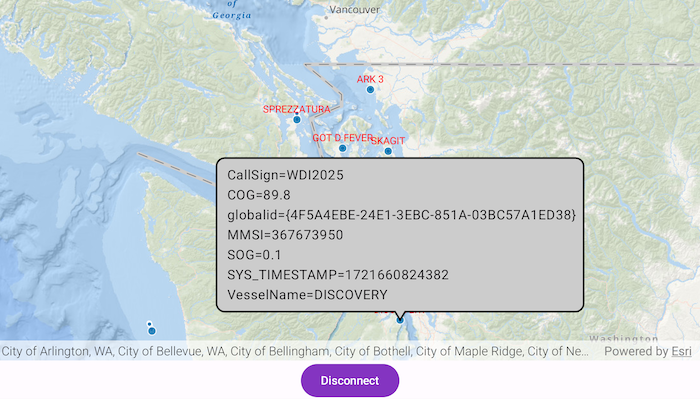
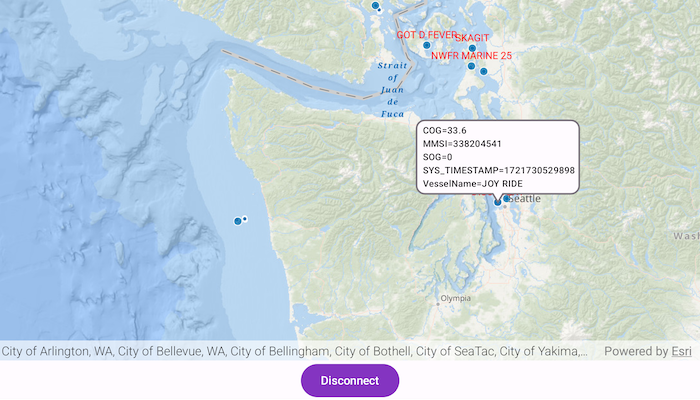
PR fixes

diff --git a/add-custom-dynamic-entity-data-source/src/main/java/com/esri/arcgismaps/sample/addcustomdynamicentitydatasource/components/MapViewModel.kt b/add-custom-dynamic-entity-data-source/src/main/java/com/esri/arcgismaps/sample/addcustomdynamicentitydatasource/components/MapViewModel.kt
@@ -17,7 +17,6 @@
 package com.esri.arcgismaps.sample.addcustomdynamicentitydatasource.components
 
 import android.app.Application
-import android.util.Log
 import androidx.compose.runtime.getValue
 import androidx.compose.runtime.mutableStateOf
 import androidx.compose.runtime.setValue
@@ -40,6 +39,7 @@ import com.arcgismaps.realtime.CustomDynamicEntityDataSource
 import com.arcgismaps.realtime.DynamicEntityObservation
 import com.arcgismaps.toolkit.geoviewcompose.MapViewProxy
 import com.esri.arcgismaps.sample.addcustomdynamicentitydatasource.R
+import com.esri.arcgismaps.sample.sampleslib.components.MessageDialogViewModel
 import kotlinx.coroutines.Dispatchers
 import kotlinx.coroutines.Job
 import kotlinx.coroutines.cancelAndJoin
@@ -129,6 +129,9 @@ class MapViewModel(application: Application) : AndroidViewModel(application) {
     // This should also be passed to the composable MapView this mapViewProxy is associated with.
     val mapViewProxy = MapViewProxy()
 
+    // create a ViewModel to handle dialog interactions
+    val messageDialogVM: MessageDialogViewModel = MessageDialogViewModel()
+
     fun dynamicEntityDataSourceConnect() =
         viewModelScope.launch { dynamicEntityDataSource.connect() }
 
@@ -185,9 +188,9 @@ class MapViewModel(application: Application) : AndroidViewModel(application) {
                     observationString = "Waiting for a new observation ..."
                 }
             }.onFailure { error ->
-                Log.e(
-                    javaClass.simpleName,
-                    "Error identifying dynamic entity: ${error.message}"
+                messageDialogVM.showMessageDialog(
+                    title = "Error identifying results: ${error.message.toString()}",
+                    description = error.cause.toString()
                 )
             }
         }

diff --git a/add-custom-dynamic-entity-data-source/src/main/java/com/esri/arcgismaps/sample/addcustomdynamicentitydatasource/screens/MainScreen.kt b/add-custom-dynamic-entity-data-source/src/main/java/com/esri/arcgismaps/sample/addcustomdynamicentitydatasource/screens/MainScreen.kt
@@ -21,7 +21,7 @@ import androidx.compose.foundation.layout.PaddingValues
 import androidx.compose.foundation.layout.Row
 import androidx.compose.foundation.layout.fillMaxSize
 import androidx.compose.foundation.layout.padding
-import androidx.compose.foundation.layout.wrapContentSize
+import androidx.compose.foundation.layout.sizeIn
 import androidx.compose.material3.Button
 import androidx.compose.material3.MaterialTheme
 import androidx.compose.material3.Scaffold
@@ -93,7 +93,7 @@ fun MainScreen(sampleName: String) {
                                 )
                             ) {
                                 // Callout content:
-                                Column(Modifier.padding(4.dp)) {
+                                Column {
                                     Text(
                                         text = mapViewModel.observationString,
                                         style = MaterialTheme.typography.labelSmall

diff --git a/add-custom-dynamic-entity-data-source/README.md b/add-custom-dynamic-entity-data-source/README.md
@@ -47,6 +47,8 @@ This sample uses a [.json file containing observations of marine vessels in the 
 
 In this sample, we iterate through features in a GeoJSON file to mimic messages coming from a real-time feed. You can create a custom dynamic entity data source to process any data that contains observations which can be translated into map points (`com.arcgismaps.geometry.Point` objects) with associated `Map<String, Any?>` attributes.
 
+This sample uses the GeoViewCompose Toolkit module to implement a Composable MapView, which supports the use of Callouts.
+
 ## Tags
 
-data, dynamic, entity, flow, label, labeling, live, real-time, stream, track
+callout, data, dynamic, entity, flow, label, labeling, live, real-time, stream, track
